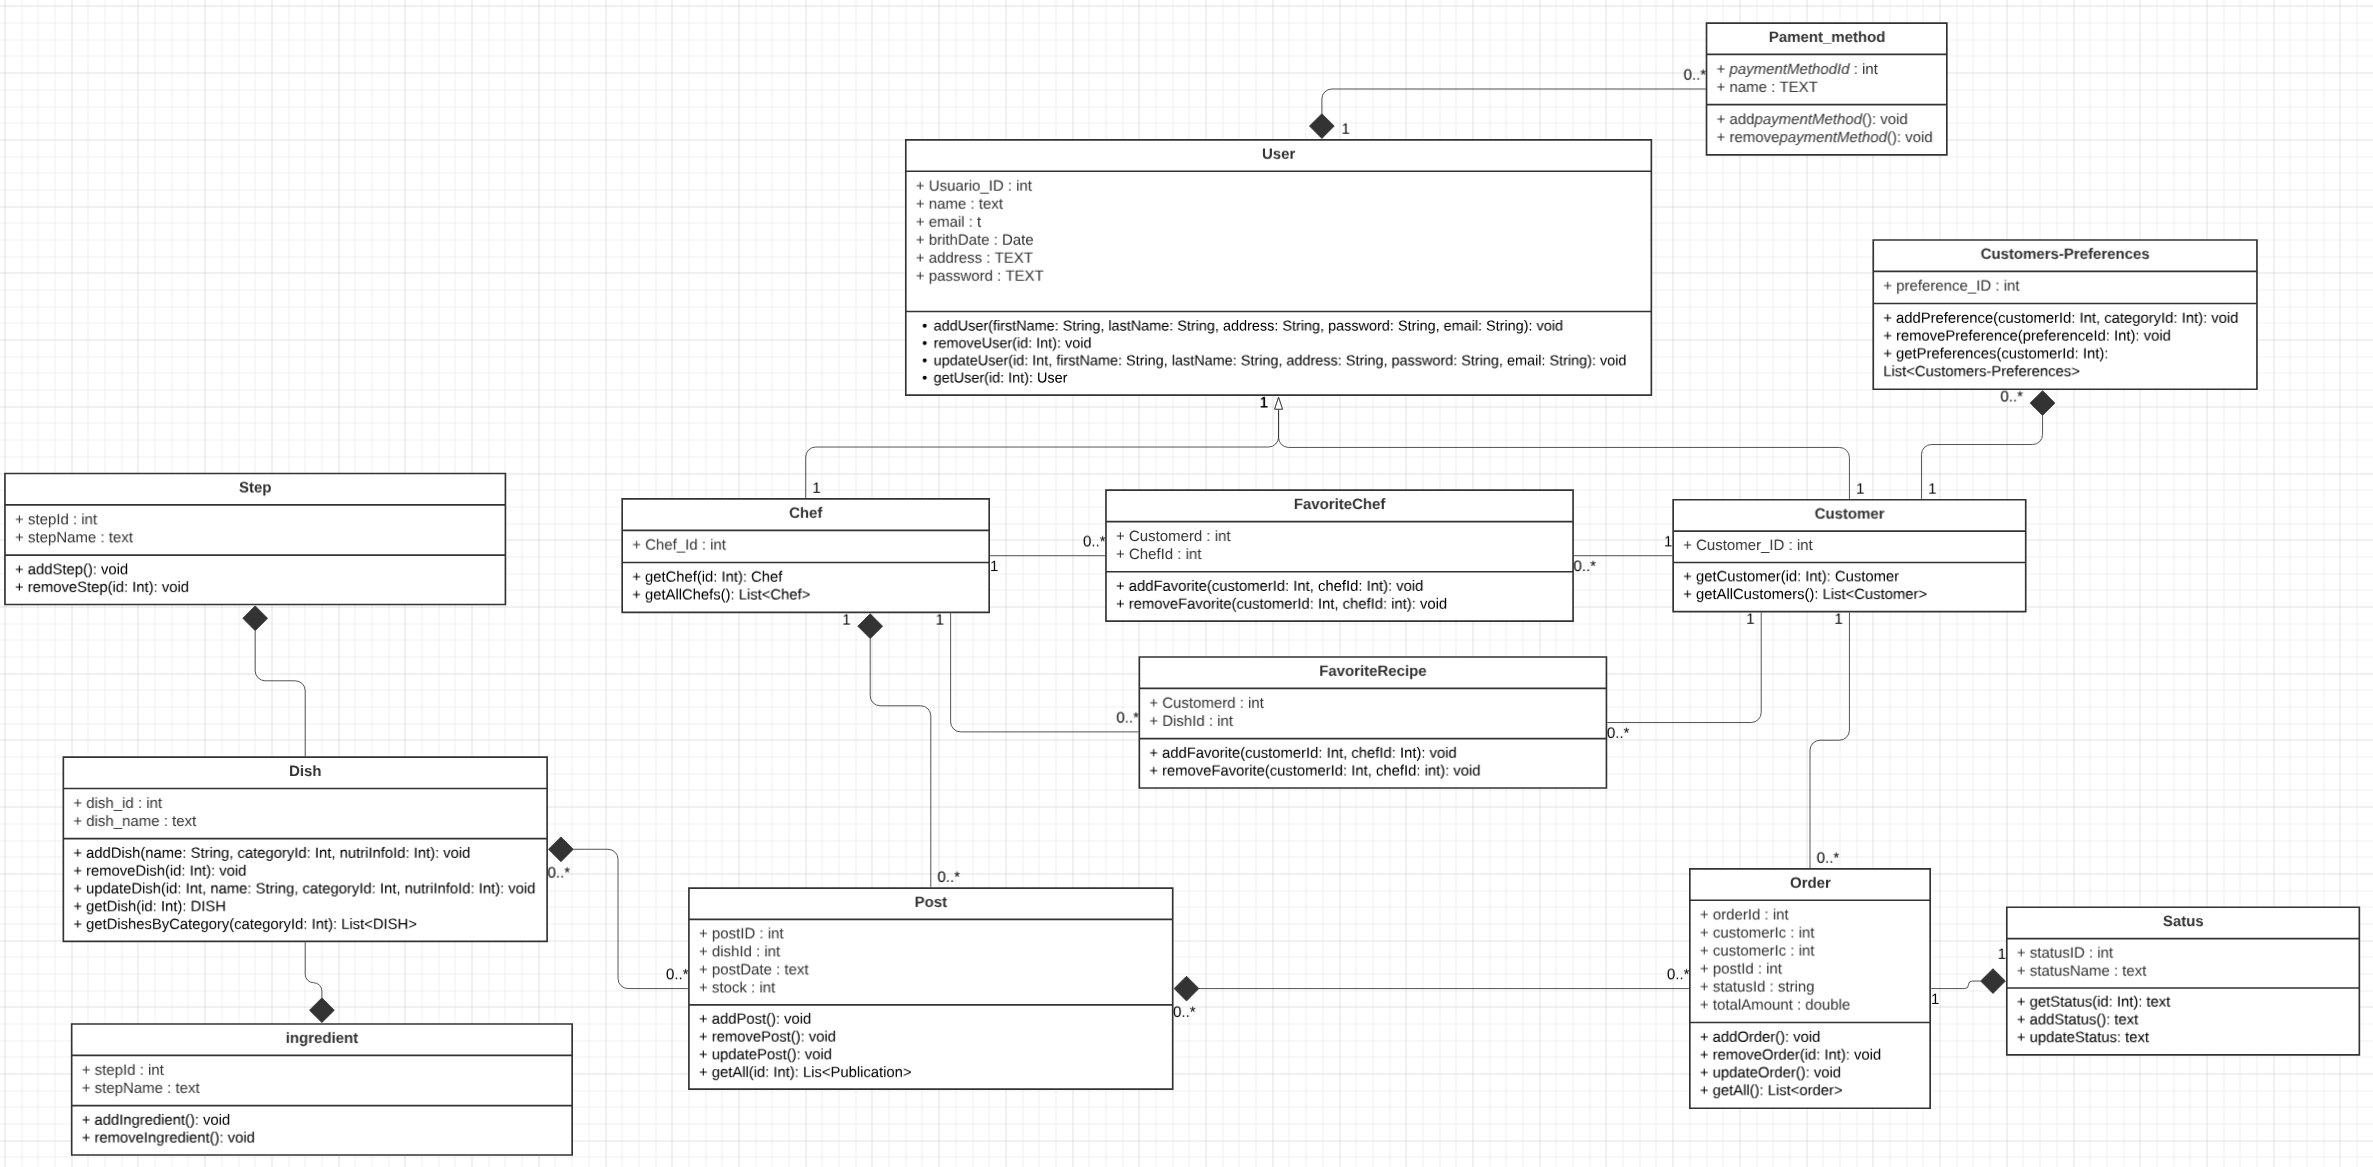
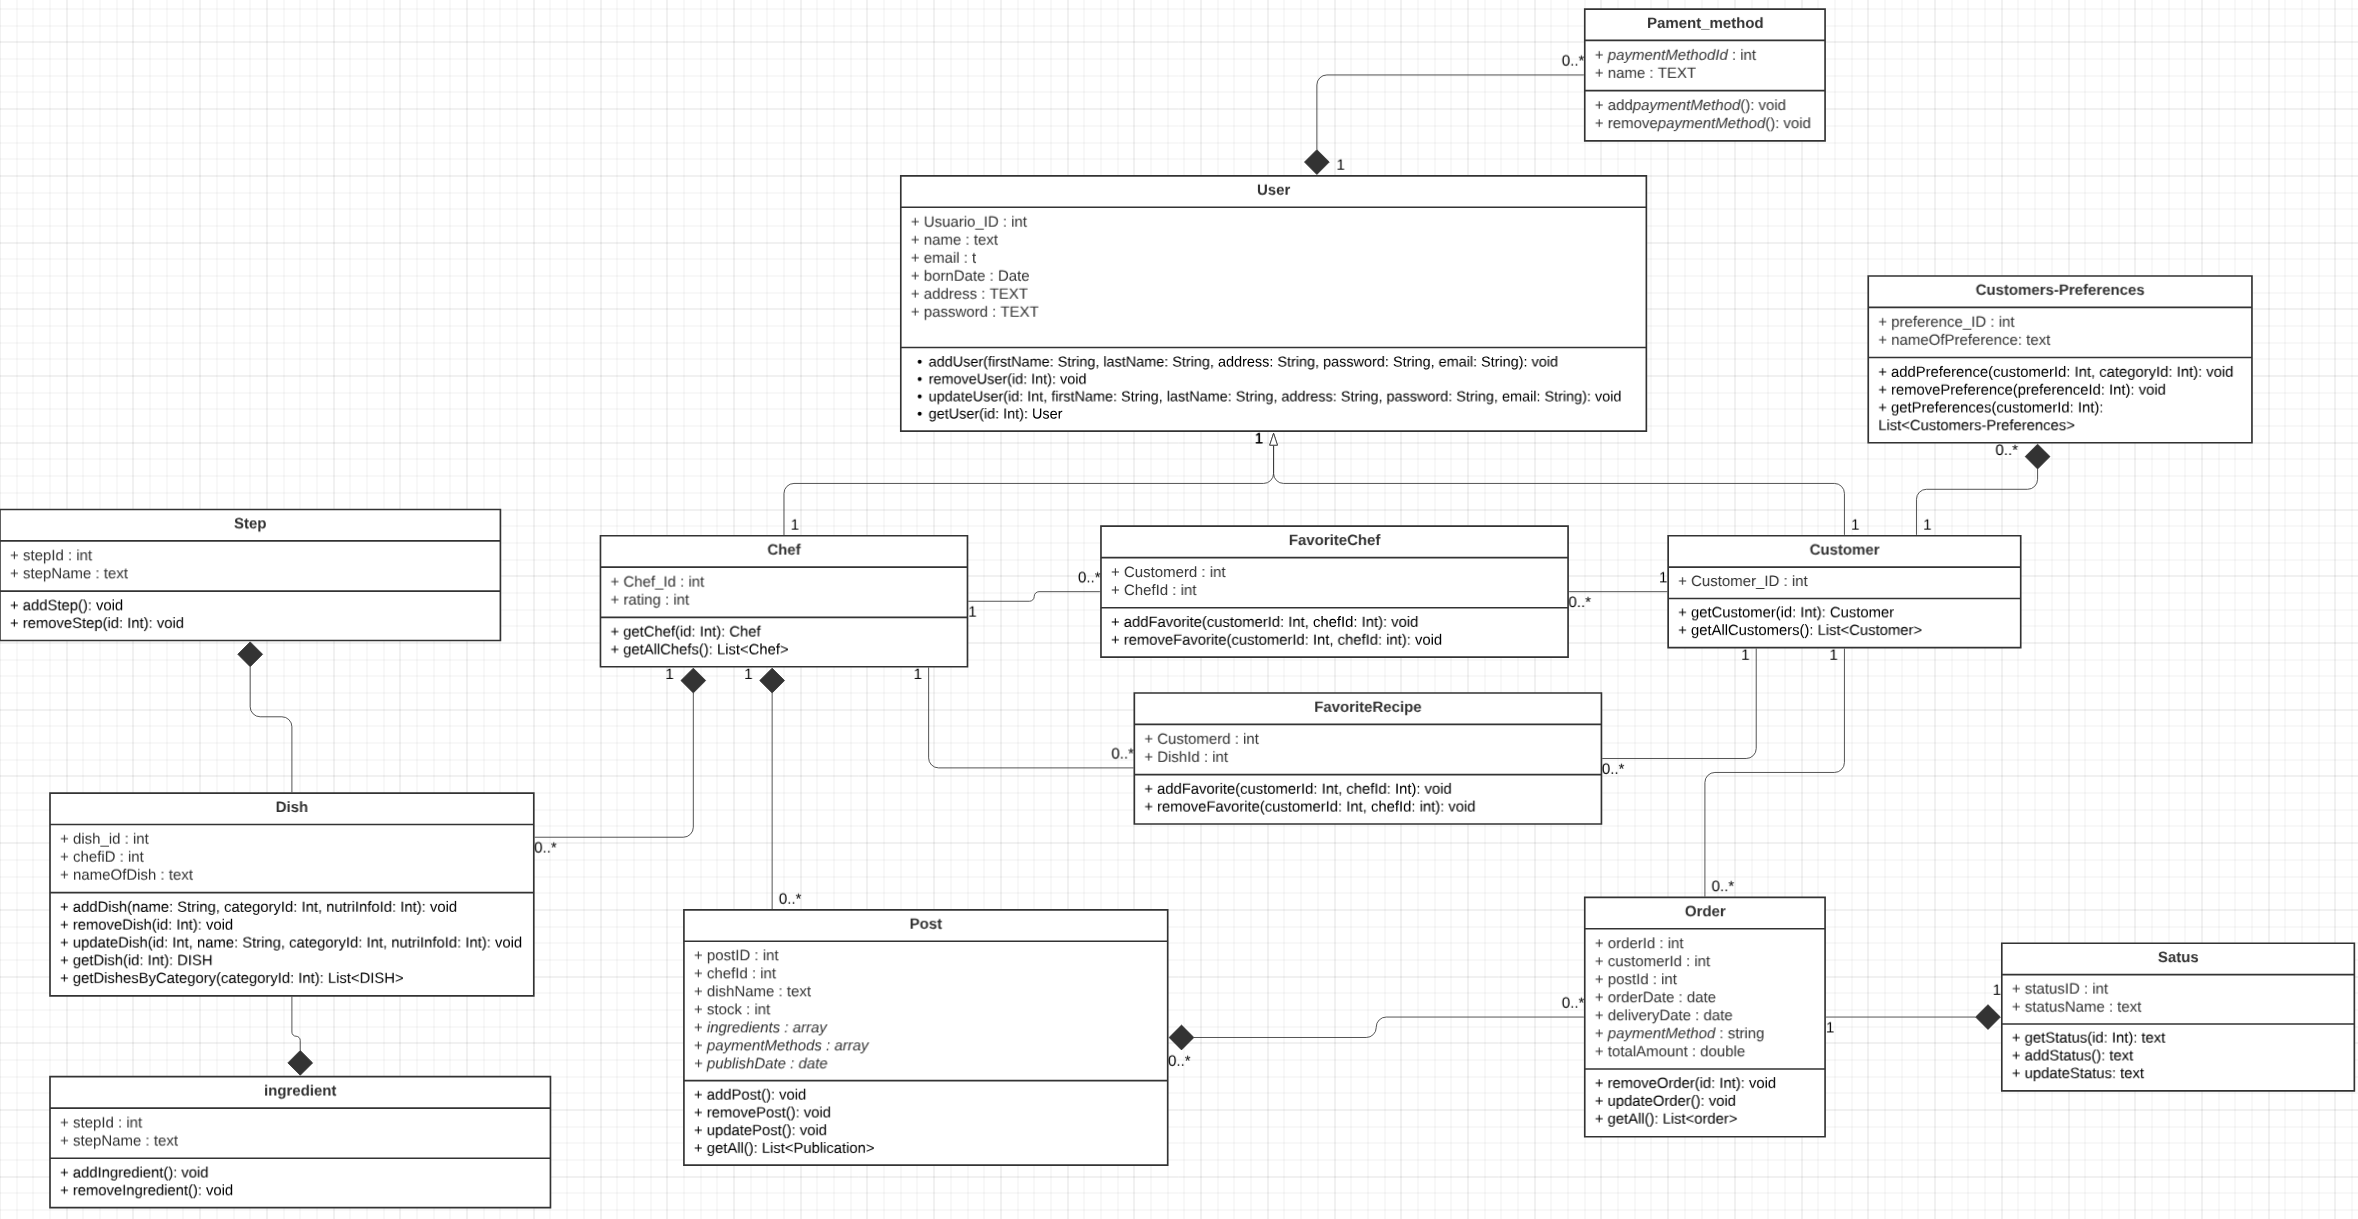
feat: Add class diagram

diff --git a/README.md b/README.md
@@ -1938,7 +1938,7 @@ git commit -m “<type>[optional scope]: <title>“ -m “<description”
 |Attendees (to <br>planning meeting)|Estefano Oscar Jaque Peña, Maria Jose Pezo Castillam, Jose Antonio Alejo Cardenas, Diego Alonso Rosado Iporre, Sebastian Omar Real Calderón|
 |Sprint Goal & User<br>stories|---------|
 |Sprint 1 Goal|Construir y diseñar una landing page interactiva, llamativa, profesional e informativa para la aplicación web "Sabores Cercanos".|
-|Sprint 1 Velocity|5(US01,US02,US03,US04,US05)|
+|Sprint 1 Velocity|------|
 |Sum of story points|8|
 
 ### 5.2.1.2. Sprint Backlog 1
